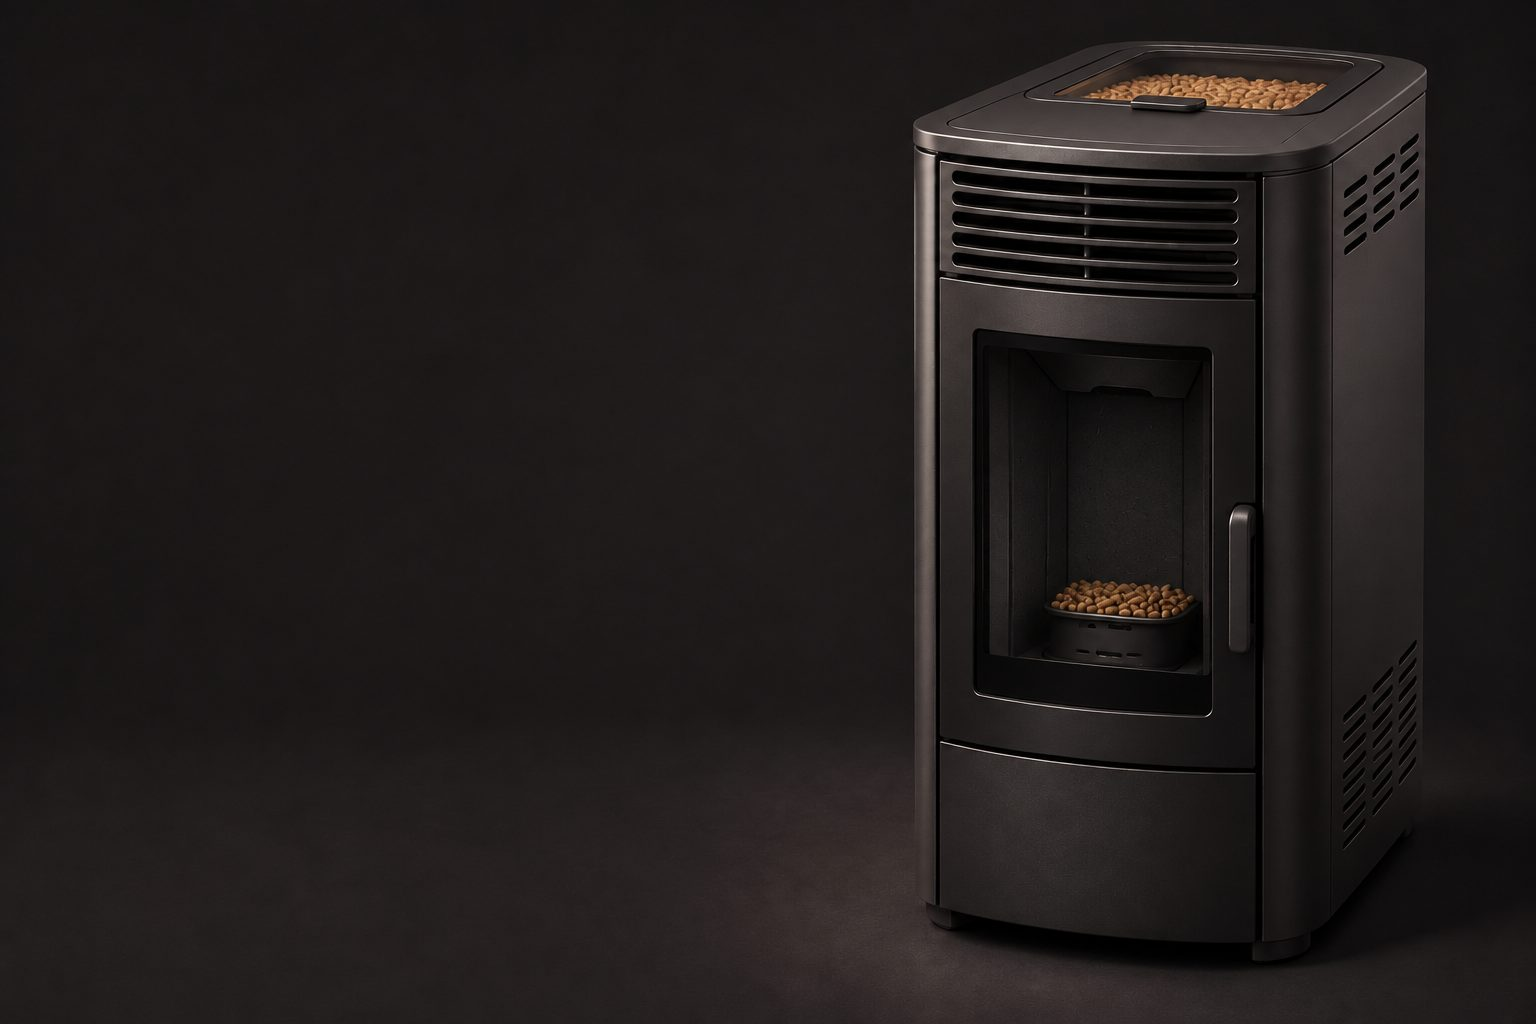
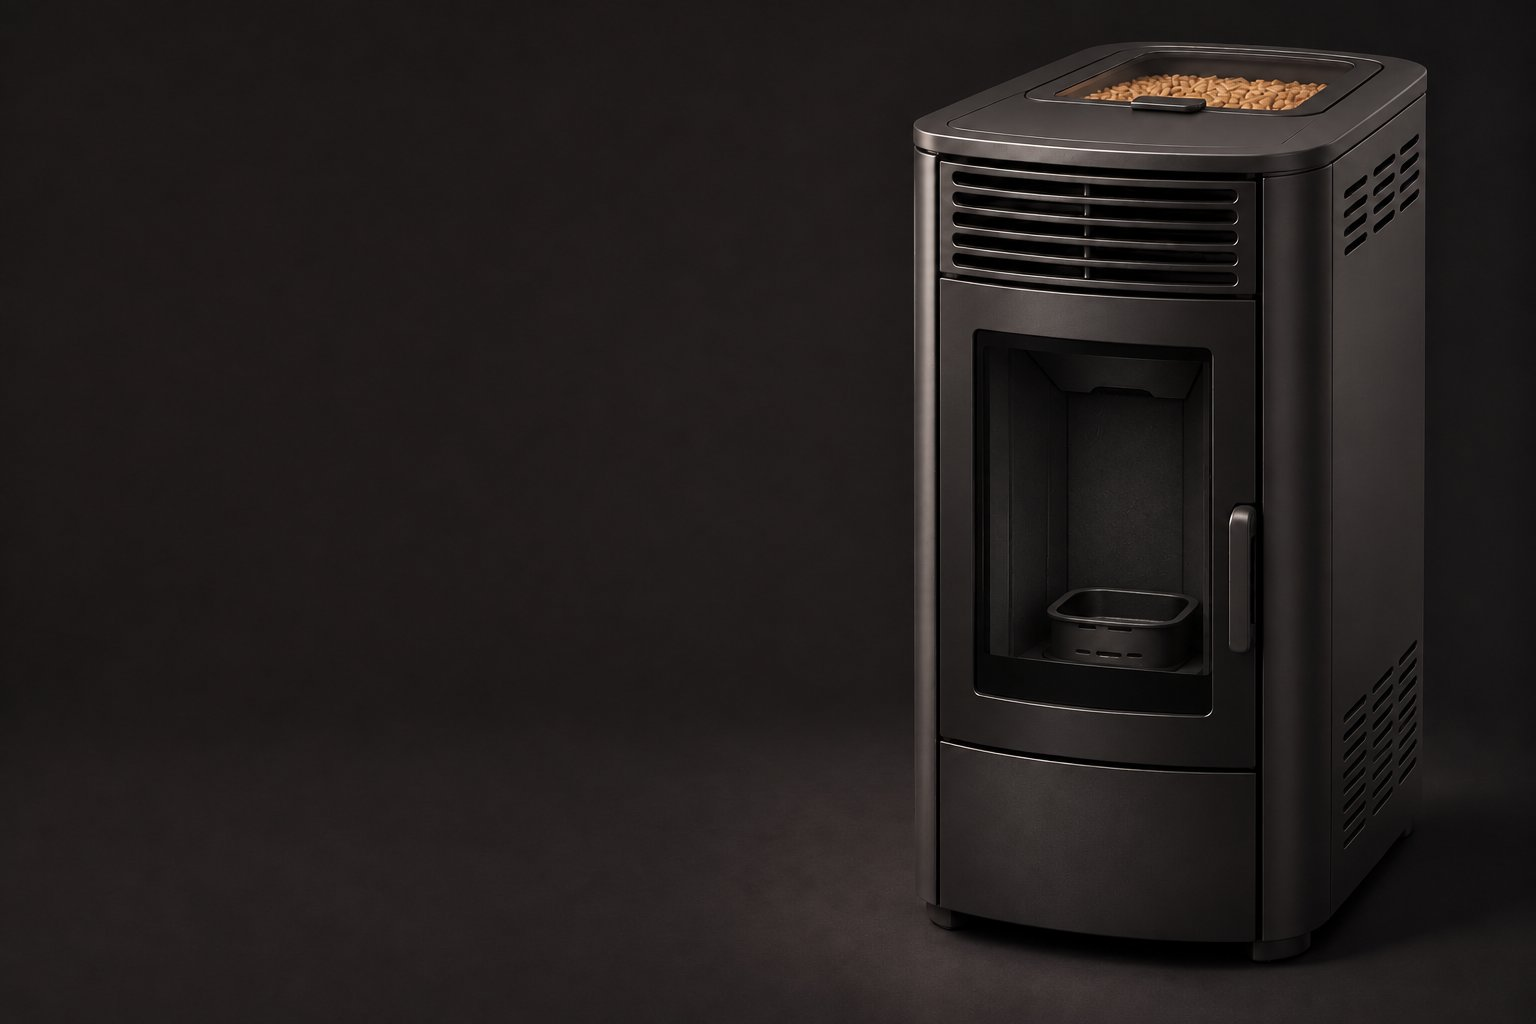
Show dirty stove glass when maintenance is due and empty burn pot when off

Changed region(s): [[0.5938, 0.0312, 0.875, 0.2812], [0.6875, 0.5625, 0.7812, 0.625], [0.875, 0.1875, 0.9062, 0.2188]]

diff --git a/tests/test_reports.py b/tests/test_reports.py
@@ -123,15 +123,60 @@ class ReportTests(unittest.TestCase):
             "en",
         )
         self.assertEqual(card["cards"][0]["title"], "Poêle personnel")
-        self.assertEqual(card["cards"][1]["elements"][0]["entity"], "sensor.stock")
+        self.assertEqual(
+            card["cards"][1]["card"]["elements"][0]["entity"], "sensor.stock"
+        )
         self.assertEqual(
             card["cards"][-1]["cards"][0]["tap_action"]["confirmation"]["text"],
             "Add one bag to today’s consumption?",
         )
-        metric = card["cards"][2]["cards"][0]
+        metric = next(c for c in card["cards"] if c["type"] == "grid")["cards"][0]
         self.assertEqual(metric["primary"], "Consumption")
         self.assertNotIn("replace('.', ',')", metric["secondary"])
         self.assertIn("Unavailable", metric["secondary"])
+
+    def test_dynamic_glass_has_exactly_one_image_for_every_state_combination(self):
+        card = dashboard.mushroom_card(
+            "Stove",
+            [
+                {"key": "stove_status", "entity_id": "sensor.heat", "enabled": True},
+                {
+                    "key": "cleaning_due",
+                    "entity_id": "binary_sensor.dirty",
+                    "enabled": True,
+                },
+            ],
+        )
+        headers = [c for c in card["cards"] if c["type"] == "conditional"]
+        self.assertEqual(len(headers), 4)
+        for heat in ("on", "off", "unknown", "unavailable", "unconfigured"):
+            for maintenance in ("on", "off", "unknown", "unavailable"):
+                with self.subTest(heat=heat, maintenance=maintenance):
+                    states = {"sensor.heat": heat, "binary_sensor.dirty": maintenance}
+                    visible = [
+                        c["card"]
+                        for c in headers
+                        if all(
+                            states[q["entity"]]
+                            in (
+                                q["state"]
+                                if isinstance(q["state"], list)
+                                else [q["state"]]
+                            )
+                            for q in c["conditions"]
+                        )
+                    ]
+                    self.assertEqual(len(visible), 1)
+                    filename = visible[0]["image"].split("/")[-1].split("?")[0]
+                    expected = {
+                        (True, True): "pellet-stove-dirty.jpg",
+                        (True, False): "pellet-stove.jpg",
+                        (False, True): "pellet-stove-off-dirty.jpg",
+                        (False, False): "pellet-stove-off.jpg",
+                    }[(heat == "on", maintenance == "on")]
+                    self.assertEqual(filename, expected)
+                    self.assertTrue((ROOT / "frontend" / filename).is_file())
+                    self.assertEqual(visible[0]["elements"], [])
 
     def test_connected_mushroom_uses_distinct_images_and_today_confirmations(self):
         card = dashboard.mushroom_card(

diff --git a/custom_components/pellet_tracker/dashboard.py b/custom_components/pellet_tracker/dashboard.py
@@ -65,32 +65,42 @@ def mushroom_card(name, entities, language="fr"):
             "elements": elements,
         }
 
-    off_image = "/pellet_tracker_static/pellet-stove-off.jpg"
-    if status_entity:
-        cards.extend(
-            [
-                {
-                    "type": "conditional",
-                    "conditions": [
-                        {"condition": "state", "entity": status_entity, "state": "on"}
-                    ],
-                    "card": header("/pellet_tracker_static/pellet-stove.jpg"),
-                },
-                {
-                    "type": "conditional",
-                    "conditions": [
-                        {
-                            "condition": "state",
-                            "entity": status_entity,
-                            "state": ["off", "unknown", "unavailable", "unconfigured"],
-                        }
-                    ],
-                    "card": header(off_image),
-                },
-            ]
-        )
-    else:
-        cards.append(header(off_image))
+    cleaning_entity = by_key.get("cleaning_due")
+    # Unknown maintenance data retains the neutral clean illustration; the badge
+    # continues to report unavailable, rather than inventing a maintenance alert.
+    for heating in (True, False) if status_entity else (False,):
+        for dirty in (True, False) if cleaning_entity else (False,):
+            conditions = []
+            if status_entity:
+                conditions.append(
+                    {
+                        "condition": "state",
+                        "entity": status_entity,
+                        "state": "on"
+                        if heating
+                        else ["off", "unknown", "unavailable", "unconfigured"],
+                    }
+                )
+            if cleaning_entity:
+                conditions.append(
+                    {
+                        "condition": "state",
+                        "entity": cleaning_entity,
+                        "state": "on" if dirty else ["off", "unknown", "unavailable"],
+                    }
+                )
+            filename = (
+                "pellet-stove"
+                + ("" if heating else "-off")
+                + ("-dirty" if dirty else "")
+                + ".jpg"
+            )
+            picture = header(f"/pellet_tracker_static/{filename}?v=0.6.1b1")
+            cards.append(
+                {"type": "conditional", "conditions": conditions, "card": picture}
+                if conditions
+                else picture
+            )
     number = tr(
         "{{ states(entity) | replace('.', ',') if is_number(states(entity)) else 'Indisponible' }}"
     )

diff --git a/custom_components/pellet_tracker/const.py b/custom_components/pellet_tracker/const.py
@@ -1,5 +1,5 @@
 """Integration constants."""
 
 DOMAIN = "pellet_tracker"
-VERSION = "0.6.0b1"
+VERSION = "0.6.1b1"
 PLATFORMS = ["sensor", "binary_sensor", "button"]

diff --git a/README.md b/README.md
@@ -3,7 +3,7 @@
 Local Home Assistant custom integration for pellet stock, seasonal usage,
 cleaning and purchase costs. Original project by Benjamin (@oOBenjaminOo).
 
-**0.6.0b1 is a feature-complete beta for real-world testing.** No HACS default-catalog submission has
+**0.6.1b1 is a feature-complete beta for real-world testing.** No HACS default-catalog submission has
 been made. No cloud account, stove connection or runtime Python dependency.
 
 ## Language / Langue
@@ -337,3 +337,16 @@ are included. This beta is intended for a test instance first.
 ## License
 
 MIT. See [LICENSE](LICENSE).
+
+### Dynamic glass / Vitre dynamique
+
+The Mushroom image combines heating state with the existing cleaning-due sensor.
+Dirty glass means the configured maintenance threshold has been reached; recording
+a cleaning resets the reminder and restores the clean image. Off images have an empty
+firebox burn pot and keep pellets in the upper hopper. Unknown maintenance data keeps
+the clean illustration while the alert badge remains unavailable. Replace previously
+copied cards once to use the four-image configuration.
+
+La vitre devient sale lorsque le capteur de nettoyage indique un entretien à prévoir,
+selon vos seuils de sacs/jours. Enregistrer un nettoyage réinitialise le rappel et
+rétablit la vitre propre. Le foyer est vide sur les deux images du poêle éteint.

diff --git a/CHANGELOG.md b/CHANGELOG.md
@@ -1,5 +1,12 @@
 # Changelog
 
+## 0.6.1b1
+
+- Four dynamic stove images combining heating and maintenance-due states.
+- Dirty glass follows the existing configurable cleaning reminder sensor.
+- Empty firebox burn pot when off, with pellets retained in the upper hopper.
+- Preserve unknown-state handling and dashboard metrics without extra status labels.
+
 ## 0.6.0b1
 
 - French/English language choice per journal at setup and in settings.
